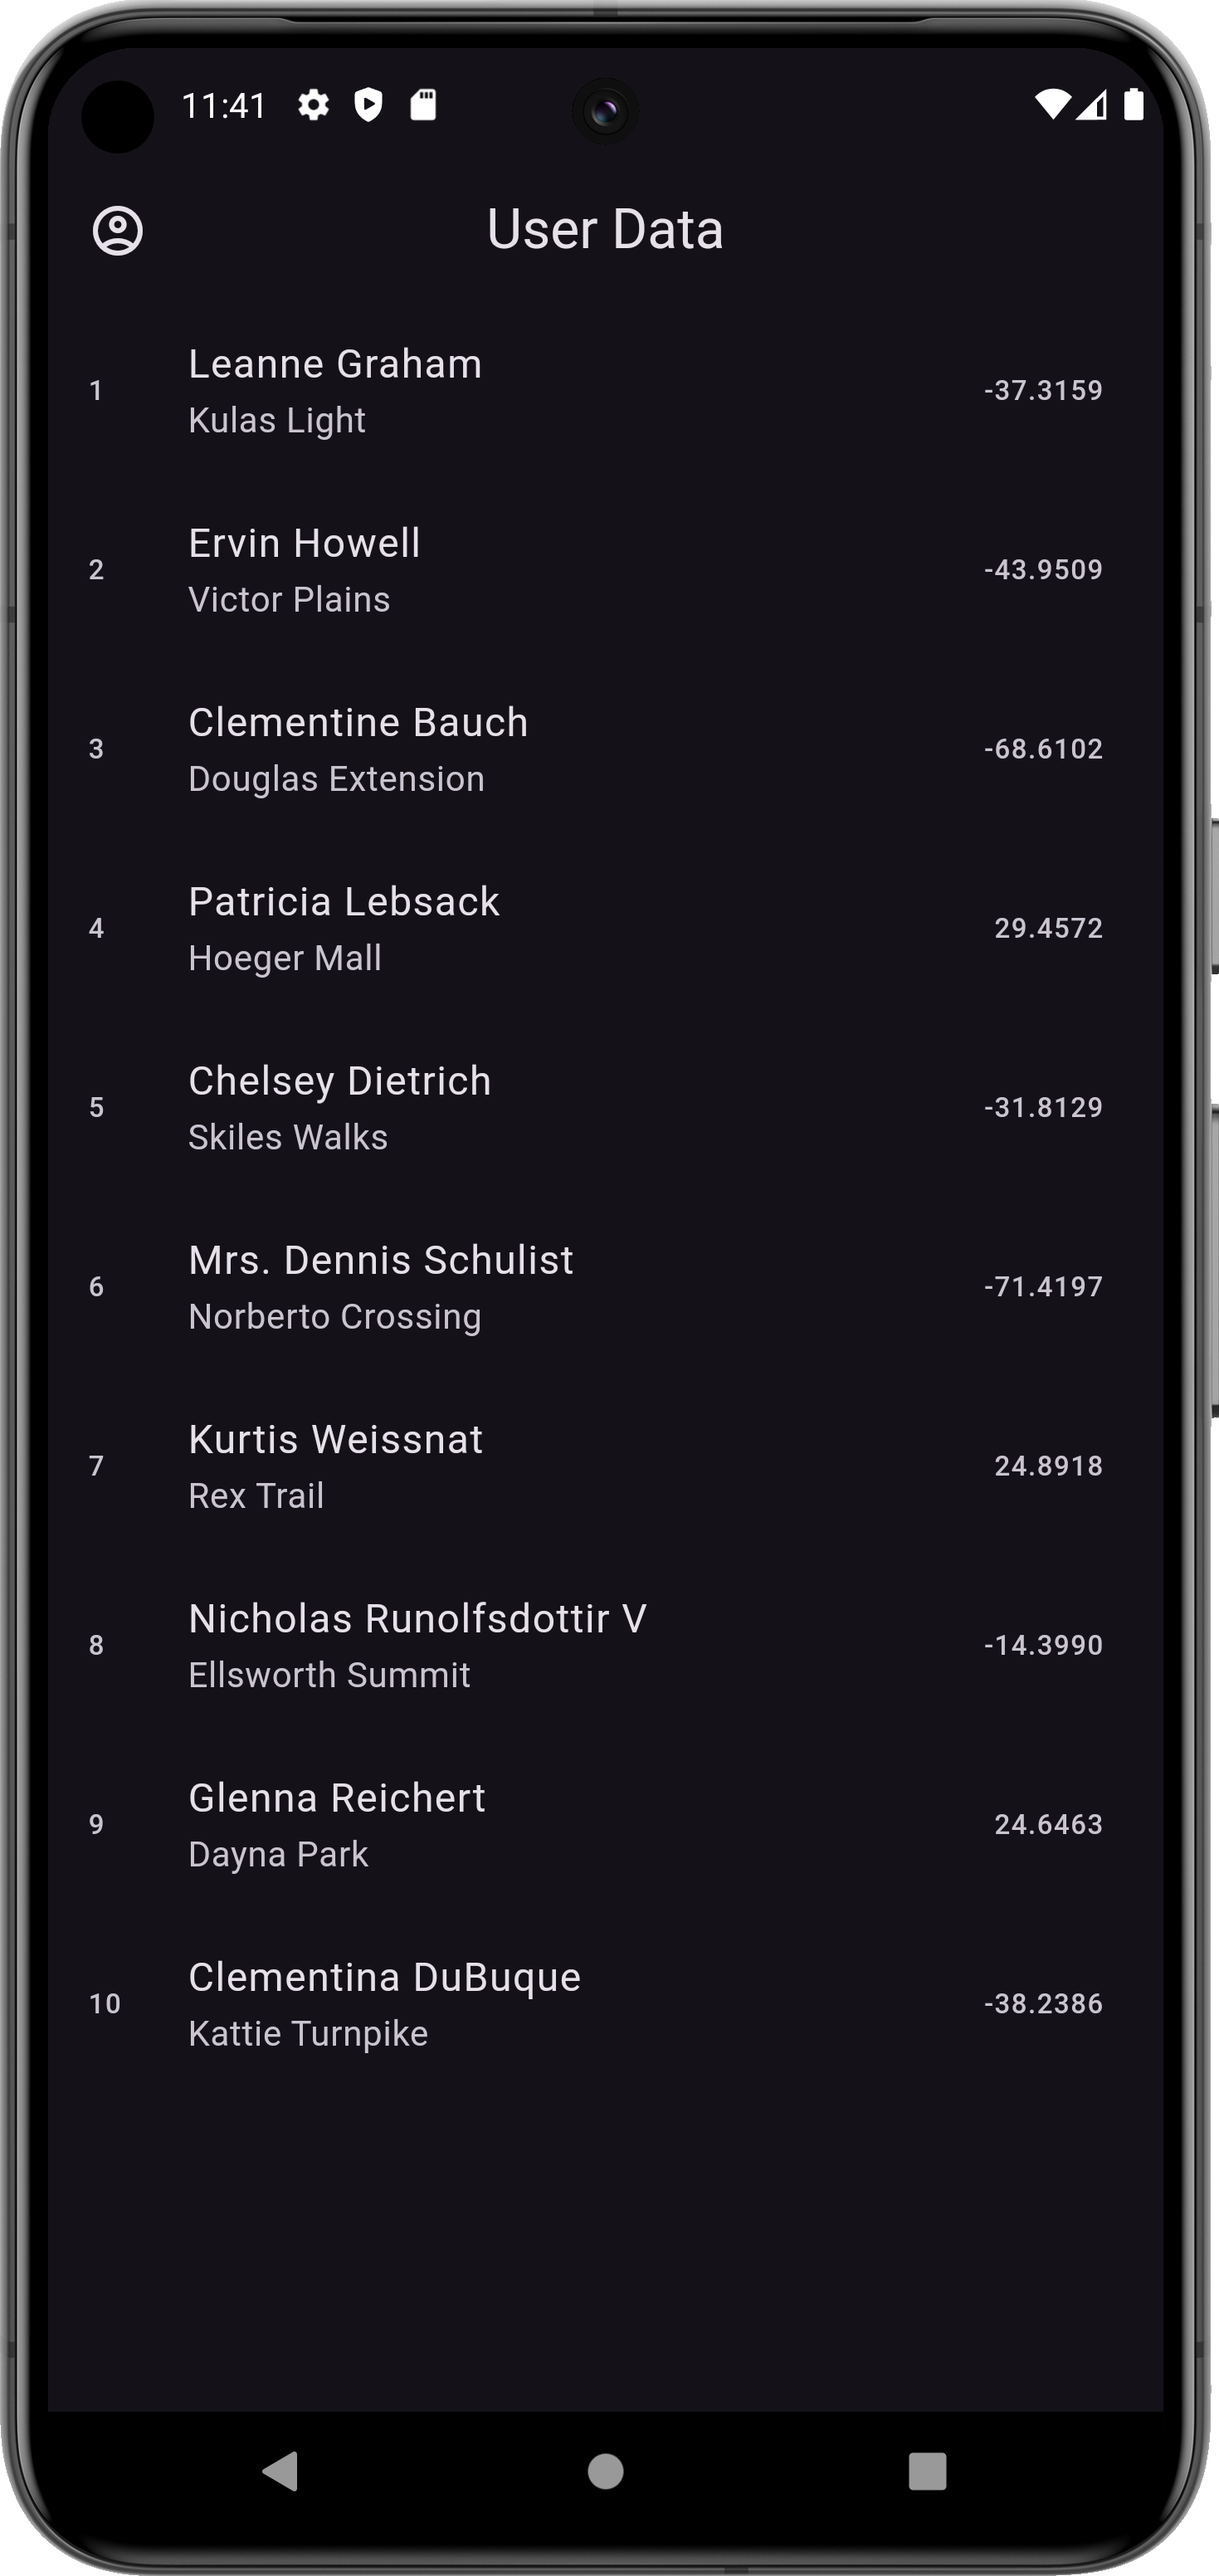
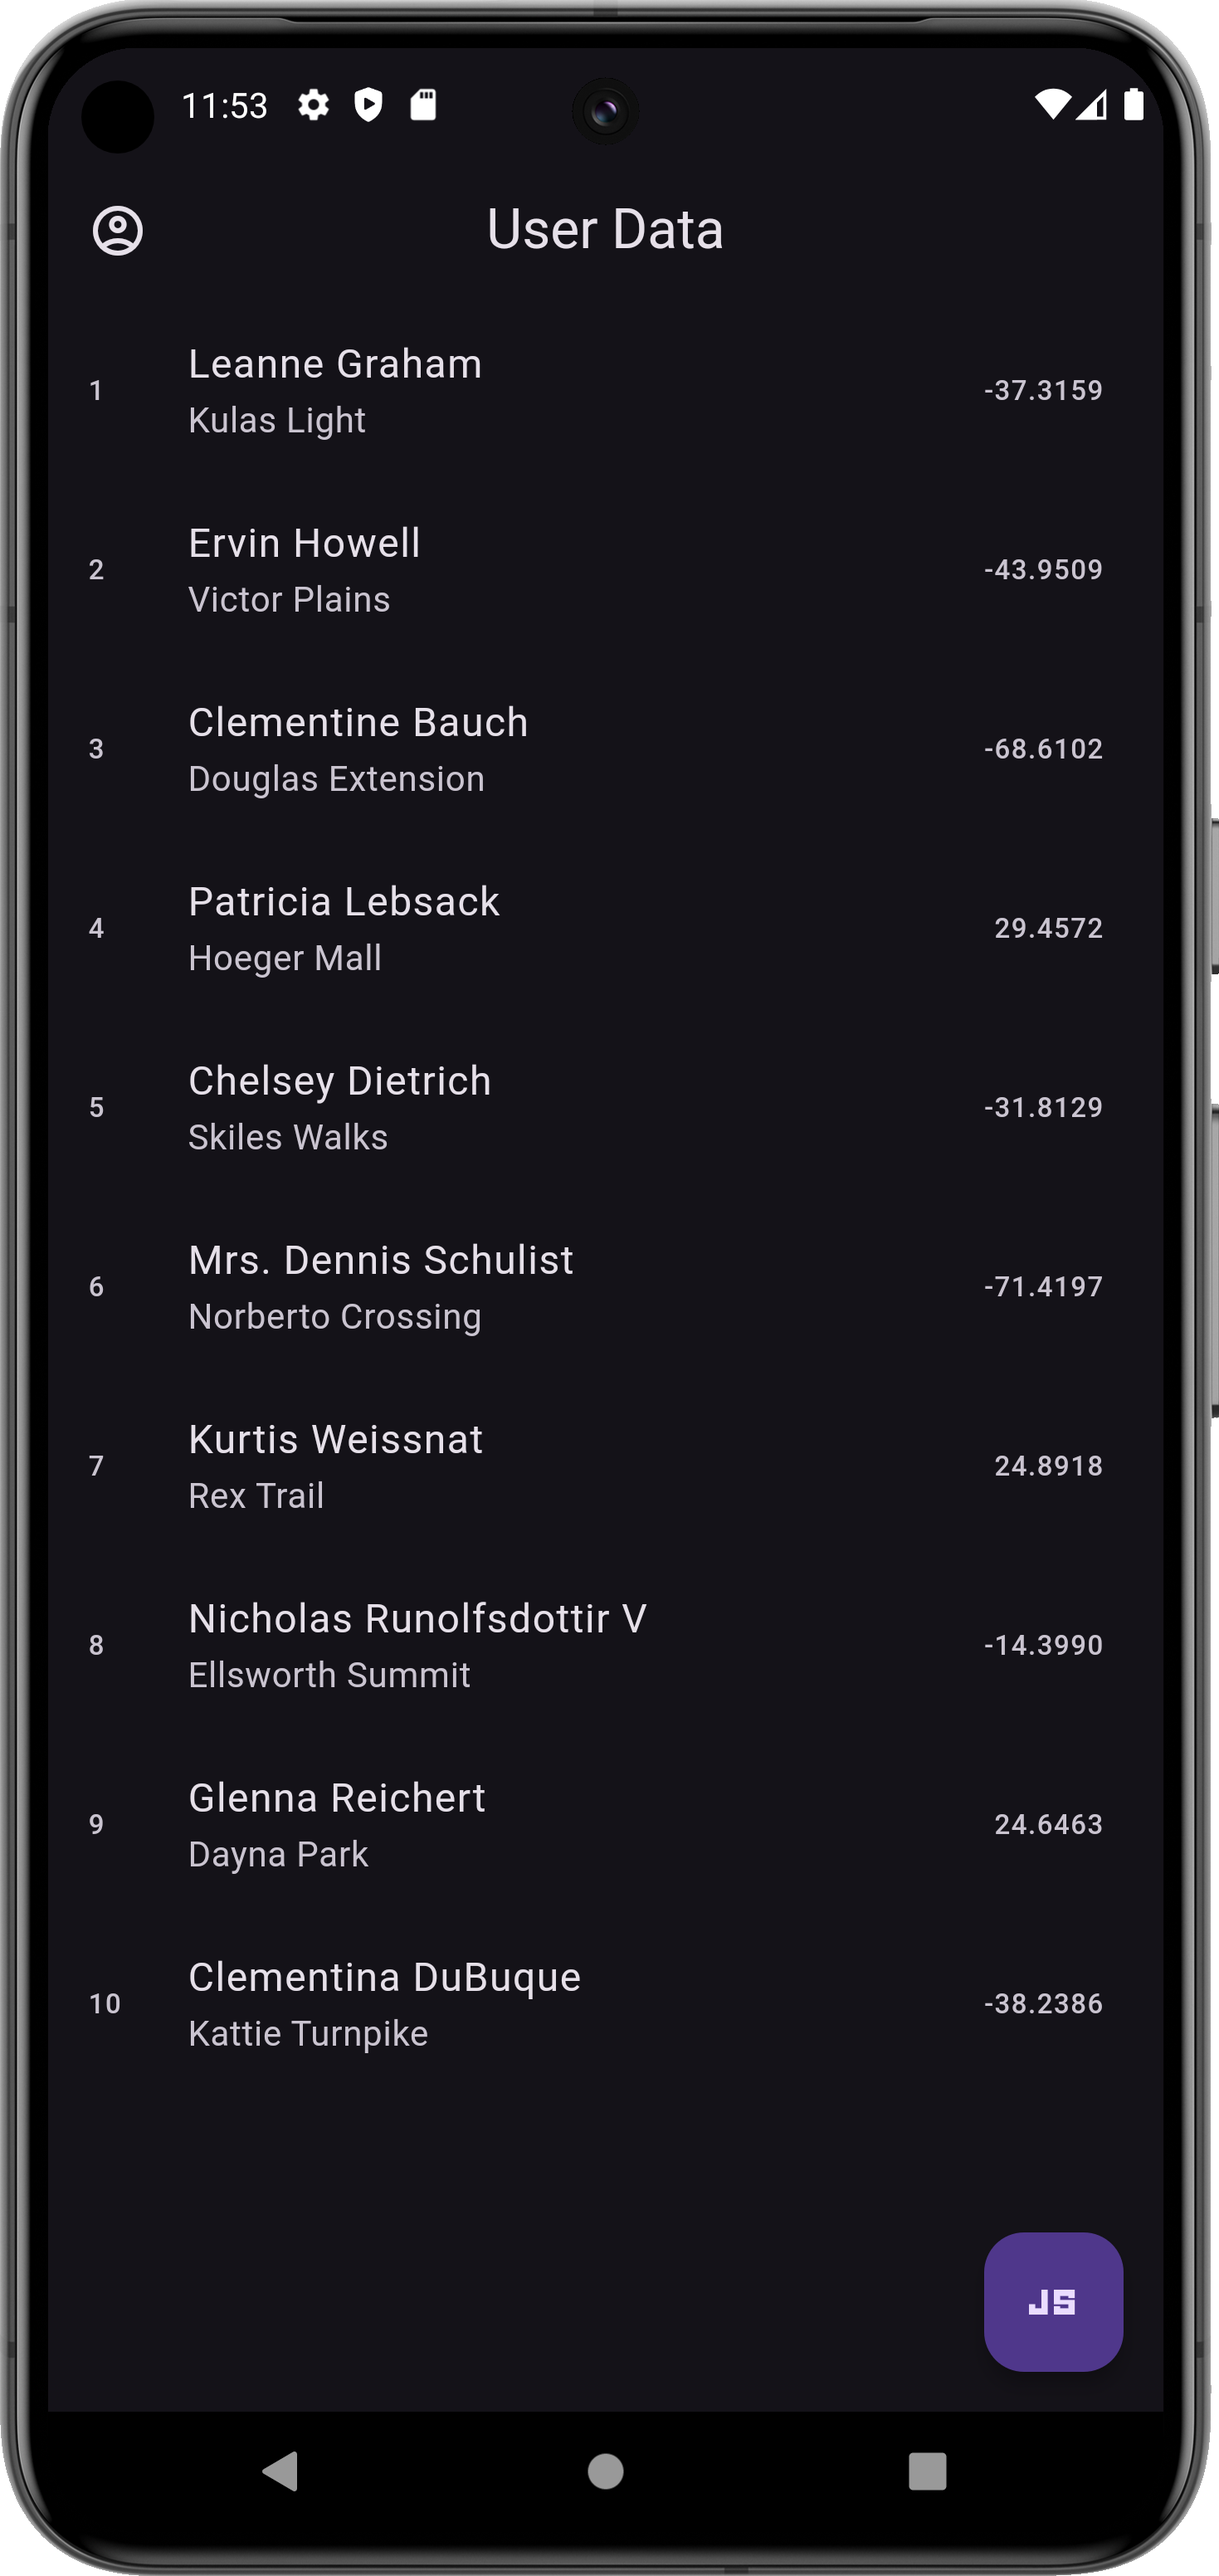
20/07/2024

Changed region(s): [[0.7965, 0.8438, 0.919, 0.9375], [0.1838, 0.0312, 0.2144, 0.0625]]

diff --git a/lib/screens/Lec-8.2/provider/user_provider.dart b/lib/screens/Lec-8.2/provider/user_provider.dart
@@ -9,11 +9,7 @@ class UserProvider extends ChangeNotifier {
   Future<void> jsonParsing() async {
     String json = await rootBundle.loadString('assets/json/user.json');
     List user = jsonDecode(json);
-    userList = user
-        .map(
-          (e) => UserModal.fromJson(e),
-        )
-        .toList();
+    userList = user.map((e) => UserModal.fromJson(e),).toList();
   }
 
   UserProvider() {

diff --git a/lib/screens/Lec-8.2/view/user_screen.dart b/lib/screens/Lec-8.2/view/user_screen.dart
@@ -23,6 +23,13 @@ class UserScreen extends StatelessWidget {
           trailing: Text(userProvider.userList[index].address.geo.lat),
         ),
       ),
+      floatingActionButton: FloatingActionButton(
+        onPressed: () {},
+        child: const Icon(
+          Icons.javascript_sharp,
+          size: 40,
+        ),
+      ),
     );
   }
 }
